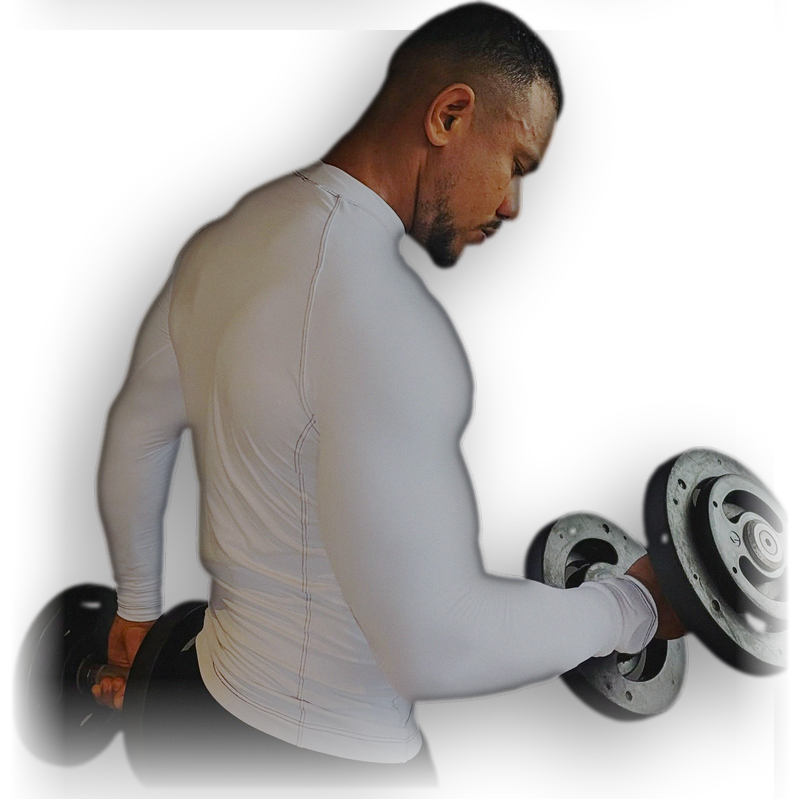
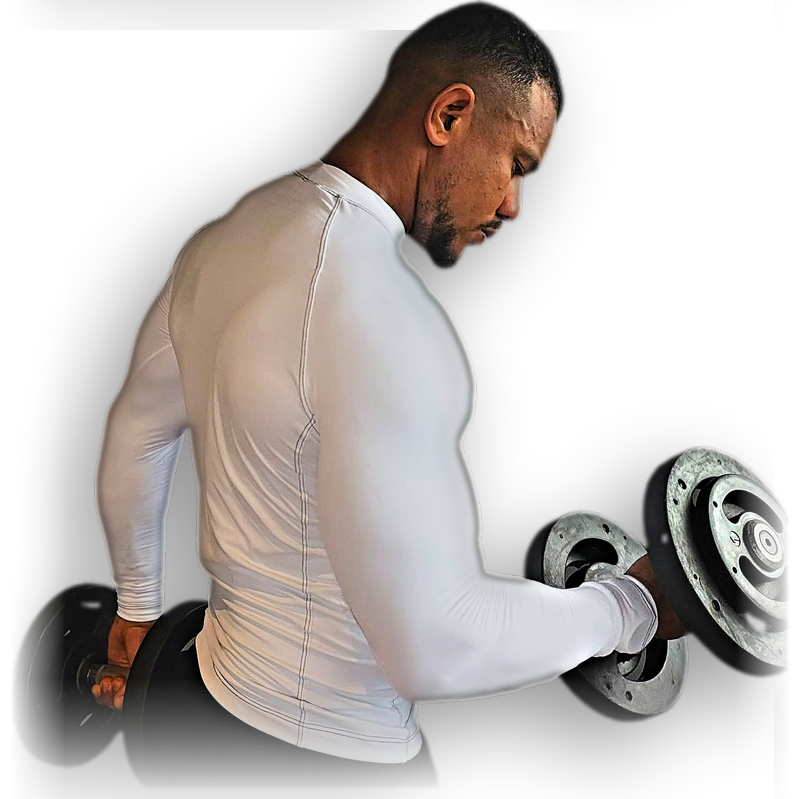
Hero: camisa branca nítida, sem aspecto embaçado
A compressão de altas-luzes achatava as dobras da camisa. Troca por
ajuste de tom local que preserva o detalhe, com nitidez leve e grão
apenas nos tons médios e escuros.

Claude-Session: https://claude.ai/code/session_01GAEskKzM2YSHQyvgLip5Wy

diff --git a/_brief-imagens/hero-v2/montar.py b/_brief-imagens/hero-v2/montar.py
@@ -6,9 +6,19 @@ exec(open(B+'integrar.py').read().split('# desktop: recorte original')[0])     #
 cut=Image.open(V+'recorte-gabriel.png').convert('RGBA'); cut=cut.crop(cut.getbbox())   # recorte feito pelo Gabriel
 # camisa branca: segura as altas-luzes antes da integracao
 rgb=np.asarray(cut.convert('RGB'),np.float32); al=cut.getchannel('A')
-rgb=np.where(rgb>160,160+(rgb-160)*0.5,rgb)*0.93          # camisa branca sem estourar
-cinza=rgb.mean(-1,keepdims=True); rgb=cinza+(rgb-cinza)*0.86     # menos saturacao, casa com o fundo cinza
-rgb=rgb*np.array([0.985,0.995,1.02],np.float32)                   # leve puxada fria
+# tom local: segura o branco sem achatar as dobras (base suavizada comprimida, detalhe preservado e realcado)
+lum=rgb.mean(-1)
+base=np.asarray(Image.fromarray(np.clip(lum,0,255).astype(np.uint8)).filter(ImageFilter.GaussianBlur(18)),np.float32)
+detalhe=lum-base
+base_c=np.where(base>205,205+(base-205)*0.68,base)*0.985          # branco maximo ~239, sem virar cinza
+novo=np.clip(base_c+detalhe*1.35,0,255)
+rgb=rgb*(novo/np.maximum(lum,1))[...,None]
+# nitidez leve na luminancia (so realca, nao inventa)
+l2=rgb.mean(-1); blur=np.asarray(Image.fromarray(np.clip(l2,0,255).astype(np.uint8)).filter(ImageFilter.GaussianBlur(1.1)),np.float32)
+d=l2-blur; d=np.where(np.abs(d)>1.5,d,0)*0.6
+rgb=rgb+np.clip(d,-12,12)[...,None]
+cinza=rgb.mean(-1,keepdims=True); rgb=cinza+(rgb-cinza)*0.86     # tira o bege sem mexer na textura
+rgb=rgb*np.array([0.99,0.997,1.012],np.float32)                   # puxada fria bem leve
 cut=Image.fromarray(np.clip(rgb,0,255).astype(np.uint8)).convert('RGBA'); cut.putalpha(al)
 def integrar2(im, fade_px, bg=(15,15,17)):
     """integracao sem halo: borda suave, light-wrap leve, sombreamento lateral, grao e sombra difusa"""
@@ -22,9 +32,10 @@ def integrar2(im, fade_px, bg=(15,15,17)):
     rgb=rgb*(1-0.42*e1)+BGc*0.42*e1                     # a borda recebe a cor do ambiente
     rgb=rgb*(1-0.14*e2)                                   # afunda de leve, sem contorno preto
     ys,xs=np.nonzero(af>0.5); x0,x1=xs.min(),xs.max()
-    grad=0.84+0.16*np.clip((np.arange(W)-x0)/max(1,x1-x0),0,1)   # luz vem da direita, esquerda mais escura
+    grad=0.91+0.09*np.clip((np.arange(W)-x0)/max(1,x1-x0),0,1)   # luz vem da direita, esquerda mais escura
     rgb=rgb*grad[None,:,None]
-    rgb=rgb+np.random.default_rng(7).normal(0,2.6,rgb.shape).astype(np.float32)   # grao unifica com o fundo
+    gr=np.random.default_rng(7).normal(0,2.0,rgb.shape).astype(np.float32)
+    rgb=rgb+gr*(1-np.clip(rgb.mean(-1,keepdims=True)/255,0,1))*1.3   # grao so nas areas medias/escuras
     yy=np.arange(H)[:,None]; af=af*np.clip((H-1-yy)/fade_px,0,1)**1.2
     sujeito=Image.fromarray(np.clip(rgb,0,255).astype(np.uint8)).convert('RGBA')
     sujeito.putalpha(Image.fromarray((af*255).astype(np.uint8)))
